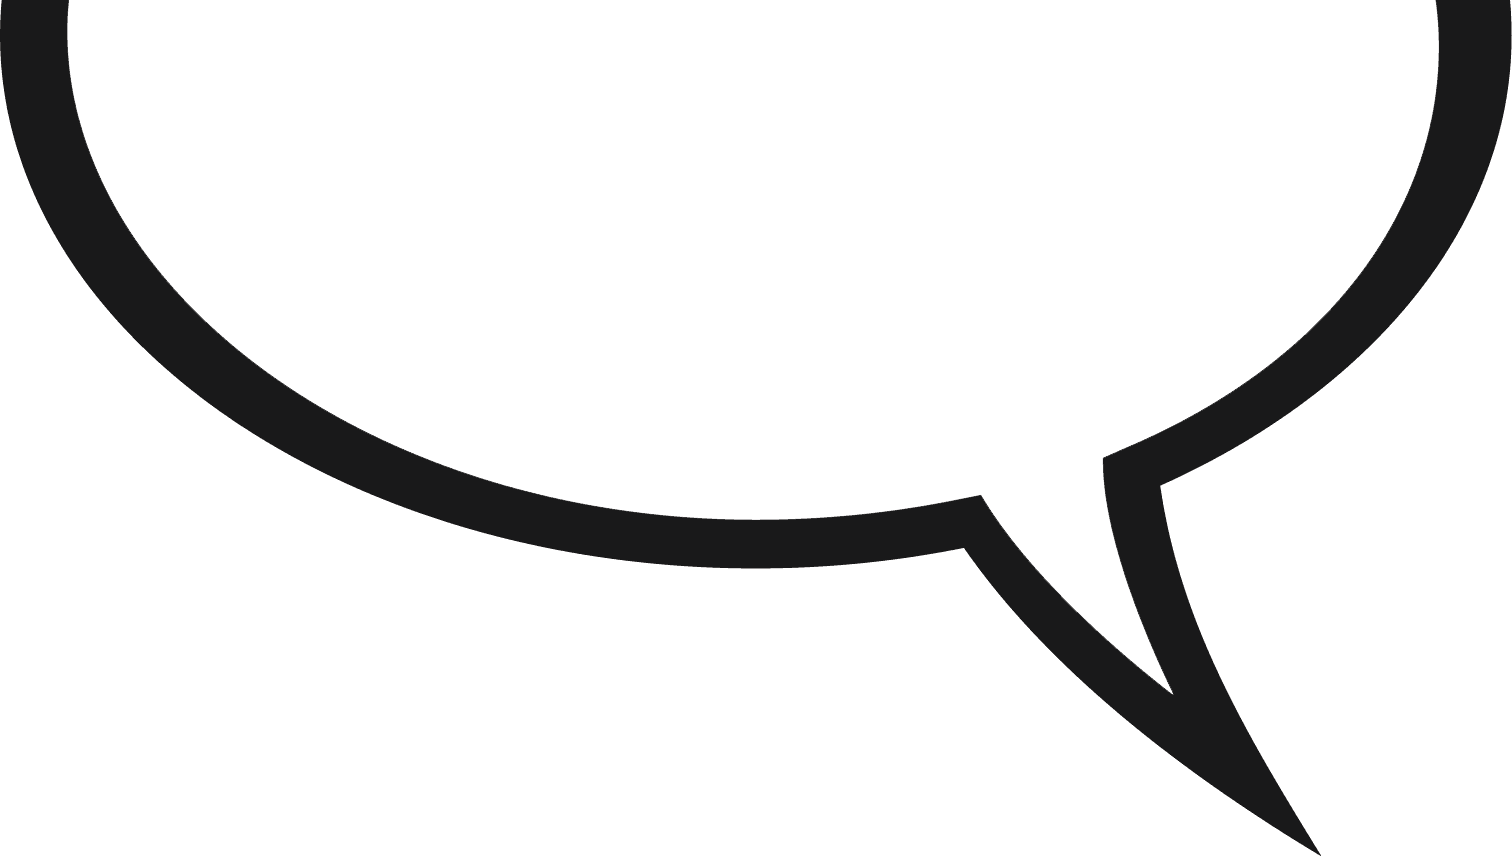
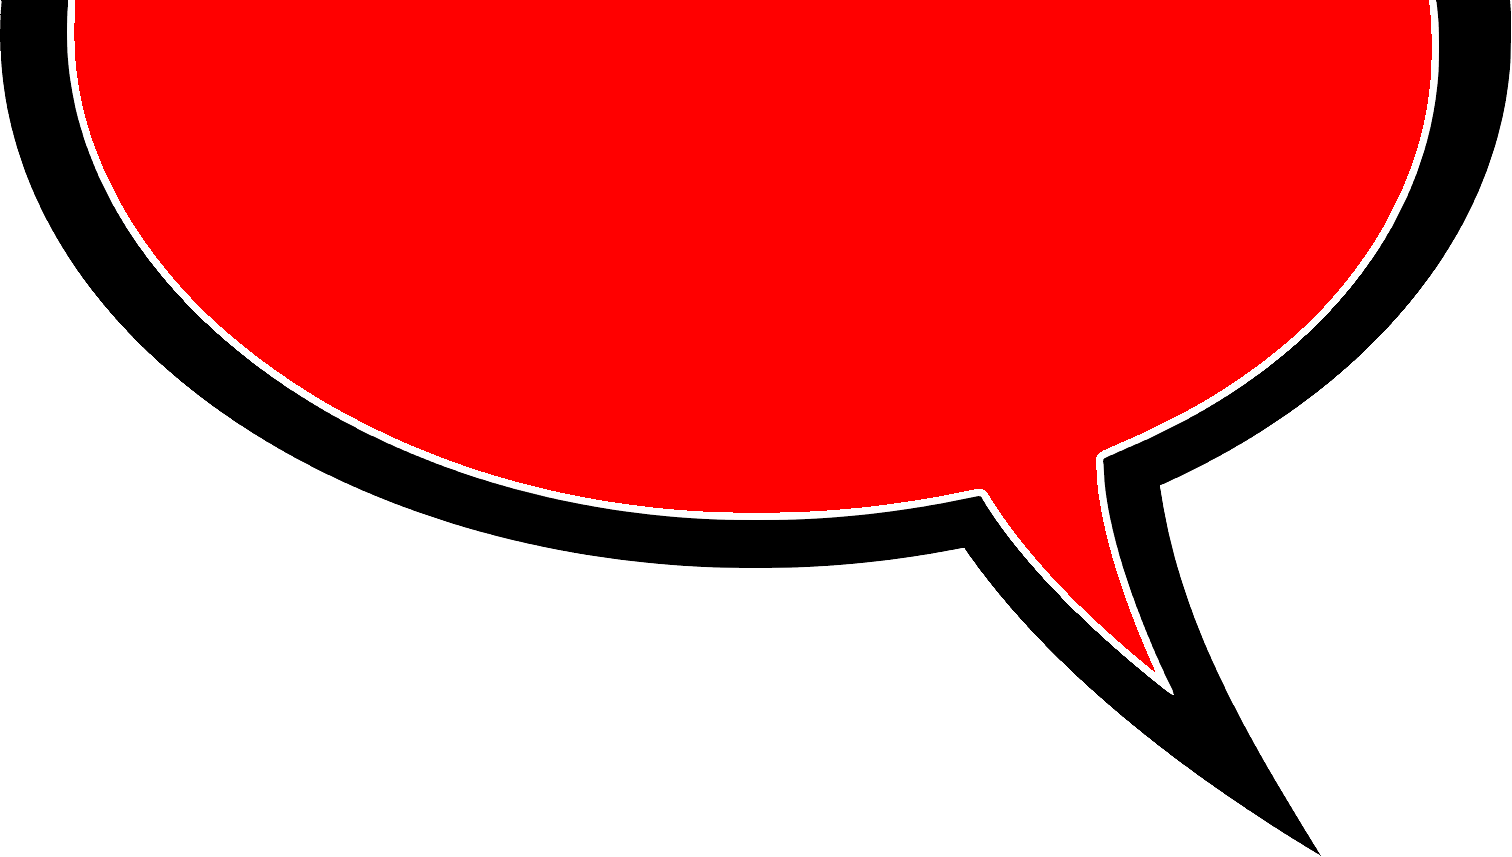
better (worse) speechbubbles

diff --git a/modules/speechbubble.py b/modules/speechbubble.py
@@ -11,11 +11,8 @@ def stretch_speechbuble(original_path: str, queue) -> Image:
     speechbubble_image = Image.open(os.path.join(os.getcwd(), 'resources/speechbubble.png'))
     original_image = Image.open(original_path)
 
-    #wtf rario twitter
-    width_ratio = original_image.width / speechbubble_image.width
-
     new_width = original_image.width
-    new_height = int(speechbubble_image.height * width_ratio)
+    new_height = int(speechbubble_image.height // (original_image.height/50))
     resized_speechbubble_image = speechbubble_image.resize((new_width, new_height))
 
     queue.put('[DEBUG] Function speechbubble.stretch_speechbuble successful')
@@ -27,13 +24,17 @@ def process_image(original_path: str, output_path: str, queue) -> str:
     original_image = Image.open(original_path)
     speechbubble_image = stretch_speechbuble(original_path, queue)
 
-    combined_height = speechbubble_image.height + original_image.height
-    combined_width = original_image.width
-    new_image = Image.new('RGBA', (combined_width, combined_height))
+    new_image = Image.new('RGBA', (original_image.width, original_image.height))
 
-    new_image.paste(speechbubble_image, (0,  0))
-    new_image.paste(original_image, (0, speechbubble_image.height))
+    new_image.paste(original_image, (0, 0))
+    new_image.paste(speechbubble_image, (0, 0), mask=speechbubble_image)
 
+    for x in range(speechbubble_image.width):
+        for y in range(speechbubble_image.height):
+            r, g, b, a = speechbubble_image.getpixel((x, y))
+            if (r > 200 and g < 200 and b < 200):
+                new_image.putpixel((x, y), (0,0,0,255))
+                
     new_image.save(output_path)
 
     queue.put(f'[DEBUG] Function speechbubble.process_image successful')
@@ -61,9 +62,17 @@ def process_animated_gif(original_path, output_path, queue):
 
     queue.put('[DEBUG] Function speechbubble.process_animated_gif: Applying speechbubble to each frame')
     for frame in frames:
-        new_frame = Image.new('RGBA', (original_image.width, original_image.height + speechbubble_image.height))
-        new_frame.paste(speechbubble_image, (0, 0))
-        new_frame.paste(frame, (0, speechbubble_image.height))
+        new_frame = Image.new('RGBA', (frame.width, frame.height))
+        new_frame.paste(frame, (0, 0))
+        new_frame.paste(speechbubble_image, (0, 0), mask=speechbubble_image)
+
+        for x in range(speechbubble_image.width):
+            for y in range(speechbubble_image.height):
+                r, g, b, a = speechbubble_image.getpixel((x, y))
+                if (r > 200 and g < 200 and b < 200):
+                    new_frame.putpixel((x, y), (255,255,255,255))
+
+
         processed_frames.append(new_frame)
 
     queue.put('[DEBUG] Function speechbubble.process_animated_gif: Saving processed frames as PNGs')
